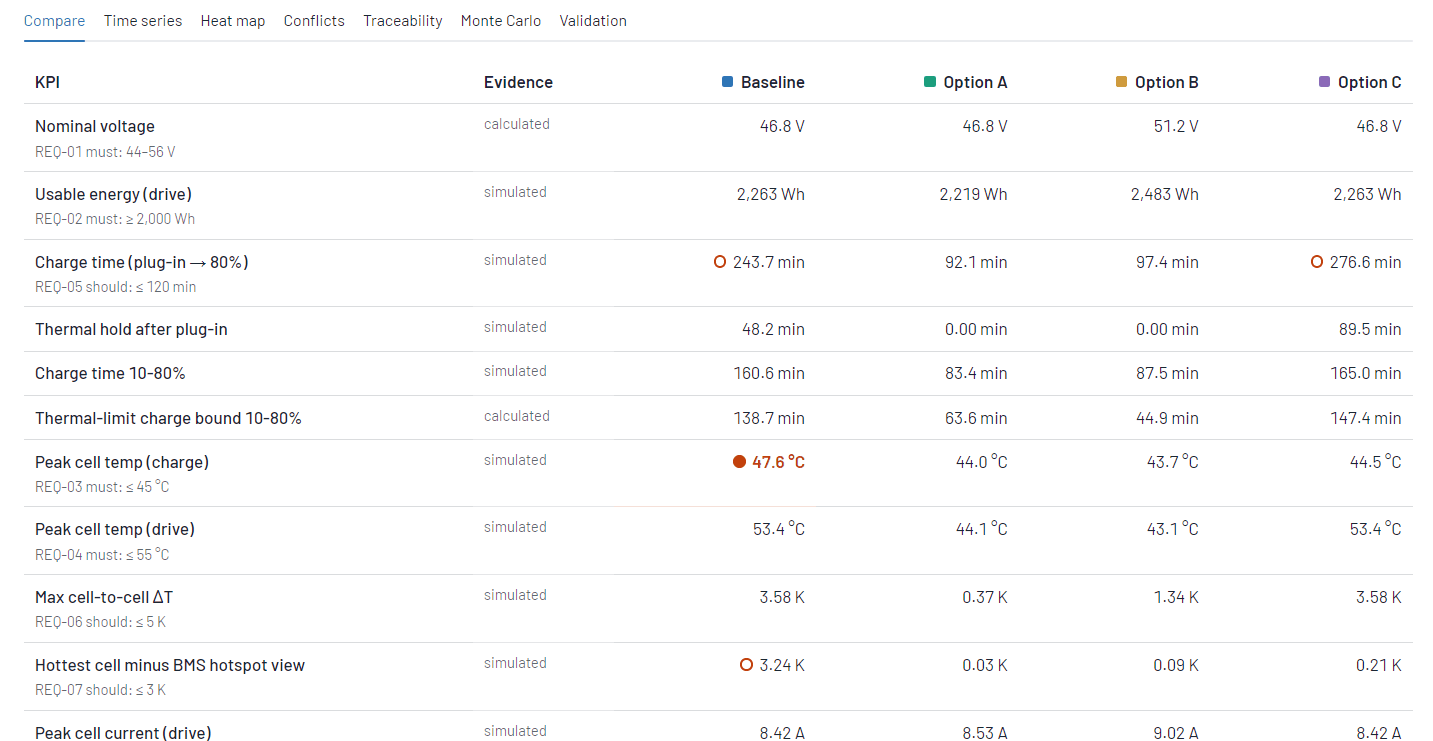
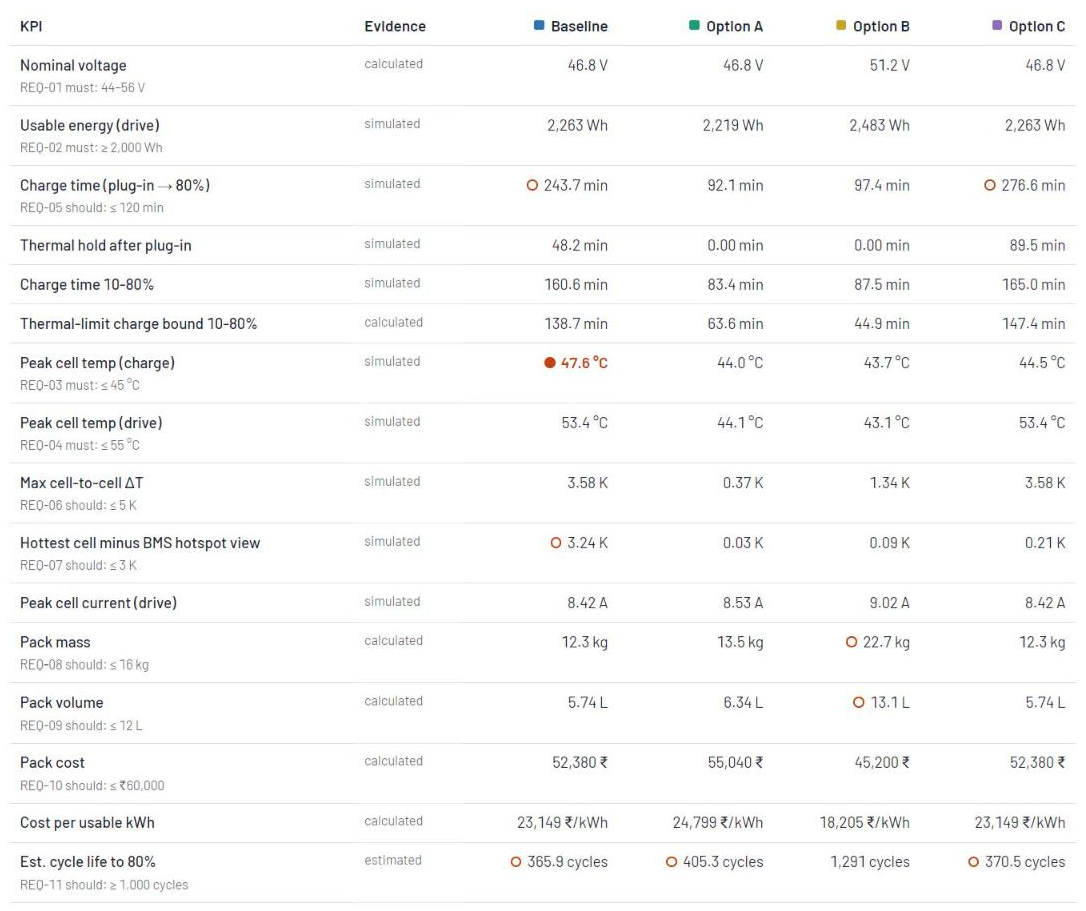
docs: retake README screenshots for the redesigned UI
Same eight states as before (baseline alone, heat map, BMS view, issues and
fixes, all four designs, KPI table, validation hold-out replay, 2x heat),
light theme, captured from the running app.

diff --git a/README.md b/README.md
@@ -100,7 +100,7 @@ the whole charge, by up to 3.2 K. It holds charging for 48 min, then charges whi
 
 ### 4. Read the cause chain and the fixes
 
-![Issues and fixes tab: REQ-03 expanded with subsystems, the cause chain and three candidate fixes](docs/screenshots/conflicts.png)
+![Issues and fixes tab: REQ-03 expanded with subsystems, the cause chain and three possible fixes](docs/screenshots/conflicts.png)
 
 **Issues and fixes** lists every failure and warning with the subsystems involved, the cause chain and candidate fixes.
 The first fix, derating on a thermal observer, is what Option C does in firmware only.
